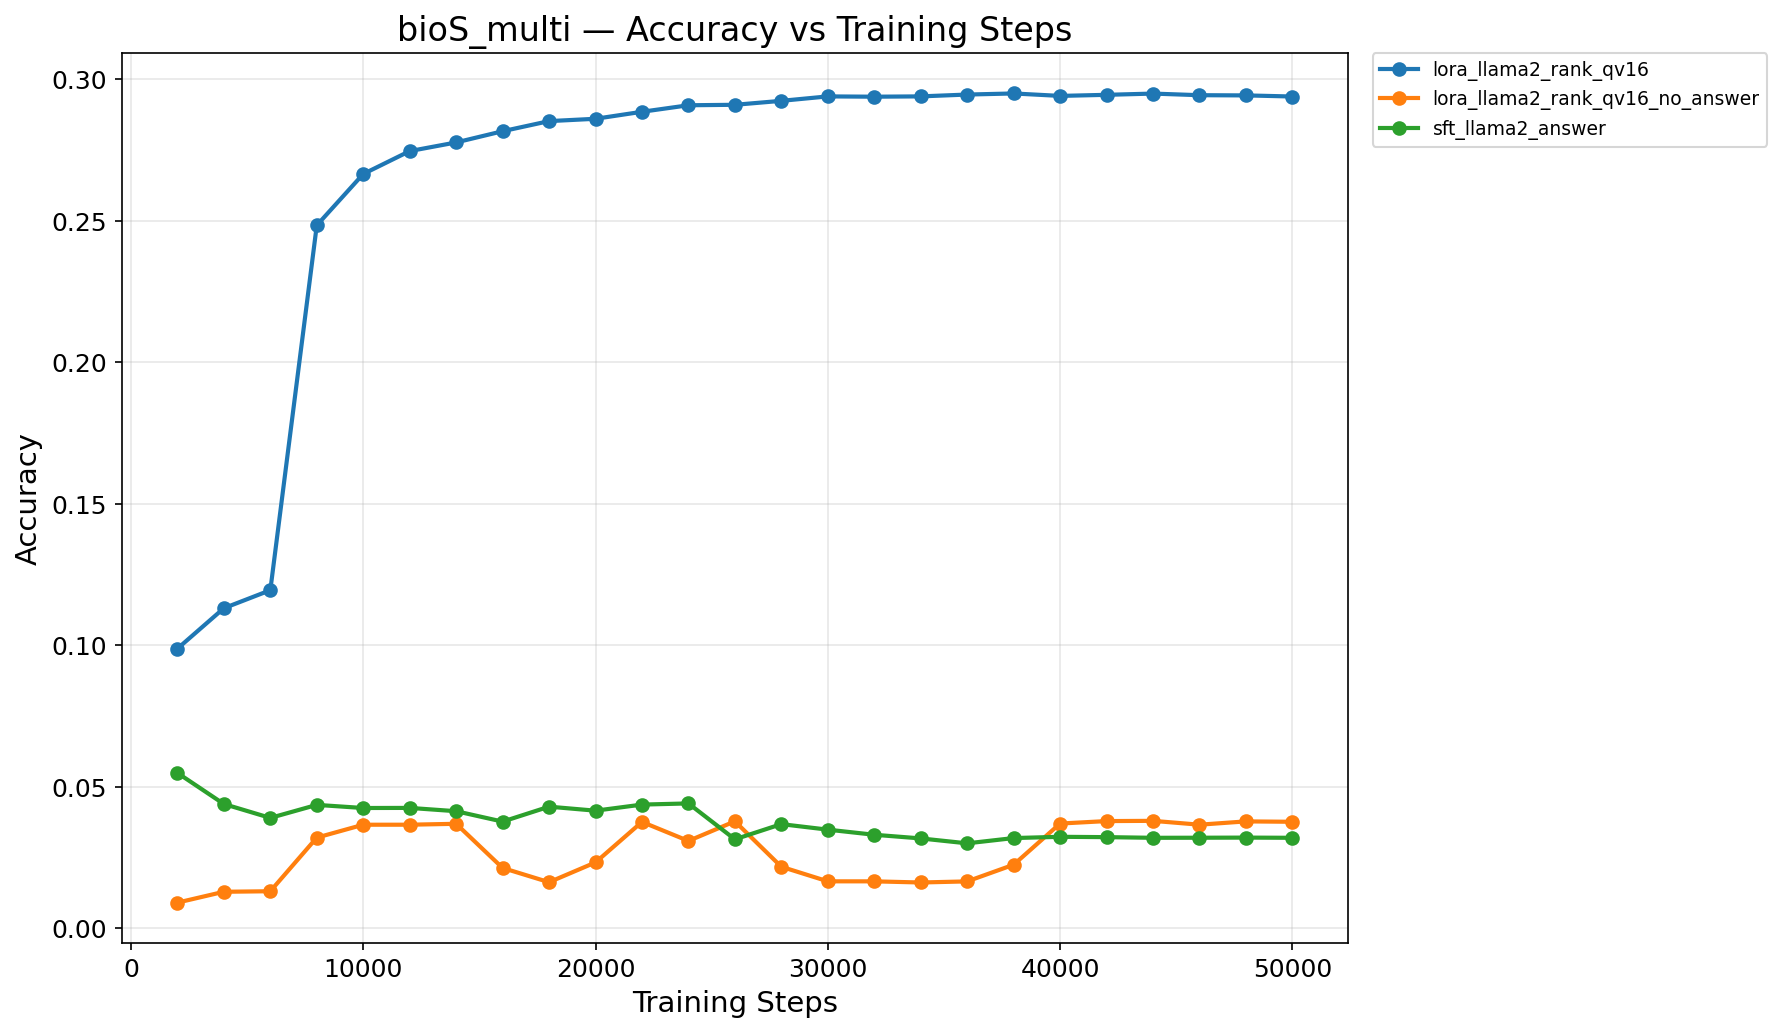
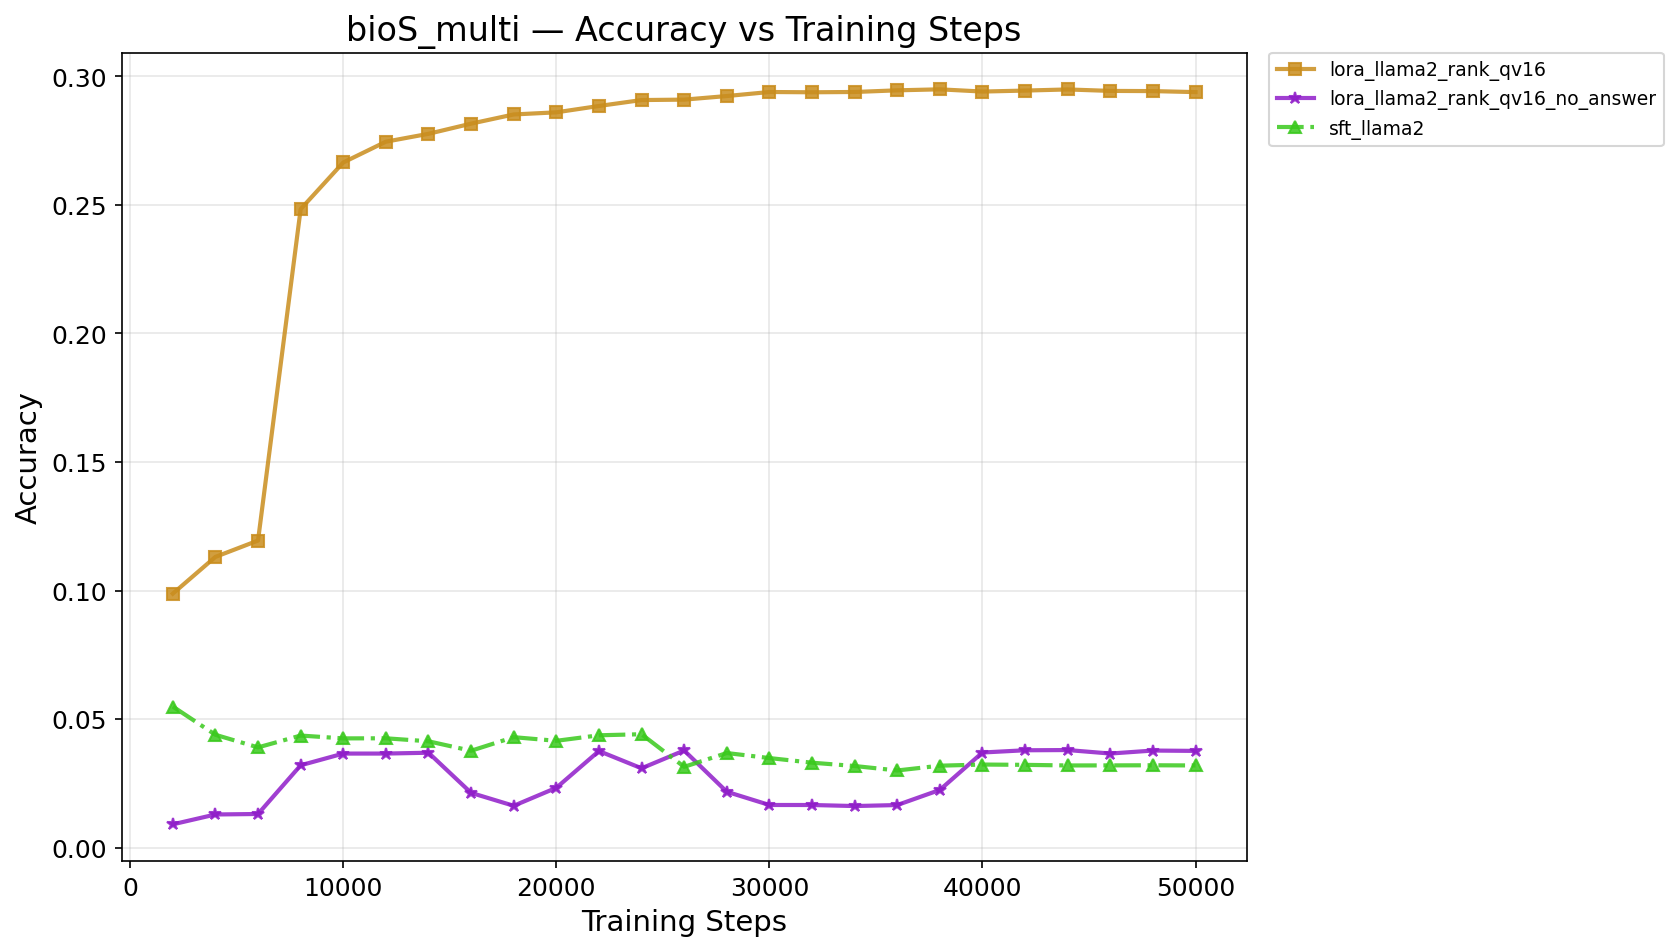
[fix] eval

diff --git a/Part3/eval/eval_all.py b/Part3/eval/eval_all.py
@@ -11,13 +11,34 @@ import matplotlib
 matplotlib.use("Agg")
 import matplotlib.pyplot as plt
 import matplotlib.gridspec as gridspec
+import matplotlib.colors as mcolors
 
+
+import colorsys
+import hashlib
 
 CHECKPOINT_BASE = "/ruilab/jxhe/CoE_Monitor/Physics_of_LM/Part3/checkpoints/QA"
+# 线型和 marker 池（与颜色正交组合）
+_LINESTYLES = ["-", "--", "-.", ":"]
+_MARKERS = ["o", "s", "^", "d", "v", "p", "P", "D", "x", "*", "1", "2", "3", "4", "|", "h", ">", "<"]
+
+
+def _get_style_for(label):
+    """基于 label hash 动态分配 (color, linestyle, marker)，同一 label 永远同一样式。"""
+    h = hashlib.sha256(label.encode()).hexdigest()
+    # 颜色：hls 均匀分布，固定 lightness 和 saturation 保可读性
+    hue = int(h[:6], 16) / 0xFFFFFF
+    color = mcolors.to_hex(colorsys.hls_to_rgb(hue, 0.45, 0.75))
+    # 线型和 marker 用相隔较远的 hex 位，避免相似字符串分配相同样式
+    linestyle = _LINESTYLES[int(h[8], 16) % len(_LINESTYLES)]
+    marker = _MARKERS[int(h[20], 16) * len(_MARKERS) // 16]
+    return {"color": color, "linestyle": linestyle, "marker": marker}
+
+
 RESULT_BASE = "/ruilab/jxhe/CoE_Monitor/Physics_of_LM/Part3/eval/result"
 EVAL_SCRIPT = os.path.join(os.path.dirname(os.path.abspath(__file__)), "eval.py")
 PLOT_DIR = "/ruilab/jxhe/CoE_Monitor/Physics_of_LM/Part3/eval/plots"
-GPU_IDS = [0, 1, 2, 3]  # 指定可用的 GPU ID 列表，而非数量
+GPU_IDS = [4,5,6,7]  # 指定可用的 GPU ID 列表，而非数量
 
 
 def get_checkpoints_to_eval():
@@ -129,27 +150,29 @@ def collect_results():
 
 def _map_legend_name(model_name):
     """将复杂的模型名称映射为图例中简洁的标签。"""
+    # 提取 mode 后缀（如 _mode_no_answer → _no_answer）
+    mode_suffix = ""
+    m = re.search(r"_mode_([^_]+)", model_name)
+    if m:
+        mode_suffix = f"_{m.group(1)}"
+
+    if 'mode' not in model_name and 'no_answer' in model_name:
+        mode_suffix = "_no_answer"
+
     if model_name.startswith("lora_llama2"):
         if "_rank_qv8_" in model_name:
-            return "lora_llama2_rank_qv8"
+            return "lora_llama2_rank_qv8" + mode_suffix
         elif "_rank_qv16_" in model_name:
-            label = "lora_llama2_rank_qv16"
-            if "no_answer" in model_name:
-                label += "_no_answer"
-            return label
+            return "lora_llama2_rank_qv16" + mode_suffix
         else:
-            return model_name
+            return "lora_llama2" + mode_suffix
 
     if model_name.startswith("sft_llama2"):
-        if "_no_answer_" in model_name:
-            return "sft_llama2_no_answer"
-        else:
-            return "sft_llama2_answer"
+        return "sft_llama2" + mode_suffix
 
     return model_name
 
 
-# 已知属性列表（固定顺序，与 generate_bios_datasets.py 对齐）
 KNOWN_ATTRS = ["birth_date", "birth_city", "university", "field", "company1name", "company1city"]
 
 
@@ -180,23 +203,39 @@ def plot_results(results, plot_dir):
                 steps = sorted(steps_dict.keys())
                 accs = [steps_dict[s].get("overall", 0) for s in steps]
                 label = _map_legend_name(model_name)
-                ax.plot(steps, accs, marker="o", label=label, linewidth=2, markersize=6)
+                s = _get_style_for(label)
+                ax.plot(steps, accs, label=label,
+                        color=s["color"], linestyle=s["linestyle"],
+                        marker=s["marker"], linewidth=2, markersize=6, alpha=0.85)
             ax.set_xlabel("Training Steps", fontsize=14)
             ax.set_ylabel("Accuracy", fontsize=14)
             ax.set_title(f"{model_type} — Accuracy vs Training Steps", fontsize=16)
             ax.legend(fontsize=9, bbox_to_anchor=(1.02, 1), loc="upper left", borderaxespad=0)
             ax.grid(True, alpha=0.3)
             ax.tick_params(axis="both", labelsize=12)
-            fig.tight_layout()
+            fig.subplots_adjust(right=0.75)
             plot_path = os.path.join(plot_dir, f"{model_type}_accuracy.png")
             fig.savefig(plot_path, dpi=150, bbox_inches="tight")
             plt.close(fig)
             print(f"[Plot] {plot_path}")
             continue
 
+        # 筛选有数据的属性
+        def _attr_has_data(attr_name):
+            for model_name, steps_dict in experiments.items():
+                if not steps_dict:
+                    continue
+                for step_data in steps_dict.values():
+                    if attr_name in step_data and isinstance(step_data[attr_name], (int, float)):
+                        return True
+            return False
+
+        has_data_attrs = [a for a in attr_order if _attr_has_data(a)]
+        n_data_attrs = len(has_data_attrs)
+
         # 布局：上方总图跨全宽，下方属性子图
-        n_cols = min(3, n_attrs)
-        n_rows_attrs = (n_attrs + n_cols - 1) // n_cols
+        n_cols = min(3, n_data_attrs) if n_data_attrs > 0 else 1
+        n_rows_attrs = (n_data_attrs + n_cols - 1) // n_cols if n_data_attrs > 0 else 0
         total_rows = 1 + n_rows_attrs
 
         fig = plt.figure(figsize=(6 * n_cols, 5 * total_rows))
@@ -210,15 +249,18 @@ def plot_results(results, plot_dir):
             steps = sorted(steps_dict.keys())
             accs = [steps_dict[s].get("overall", 0) for s in steps]
             label = _map_legend_name(model_name)
-            ax_overall.plot(steps, accs, marker="o", label=label, linewidth=2, markersize=6)
+            s = _get_style_for(label)
+            ax_overall.plot(steps, accs, label=label,
+                            color=s["color"], linestyle=s["linestyle"],
+                            marker=s["marker"], linewidth=2, markersize=6, alpha=0.85)
         ax_overall.set_xlabel("Training Steps", fontsize=12)
         ax_overall.set_ylabel("Accuracy", fontsize=12)
         ax_overall.set_title(f"{model_type} — Overall Accuracy", fontsize=14)
         ax_overall.legend(fontsize=8, bbox_to_anchor=(1.02, 1), loc="upper left", borderaxespad=0)
         ax_overall.grid(True, alpha=0.3)
 
-        # 属性子图
-        for idx, attr_name in enumerate(attr_order):
+        # 属性子图（均为有数据的属性）
+        for idx, attr_name in enumerate(has_data_attrs):
             row = 1 + idx // n_cols
             col = idx % n_cols
             ax_attr = fig.add_subplot(gs[row, col])
@@ -228,11 +270,13 @@ def plot_results(results, plot_dir):
                     continue
                 steps = sorted(steps_dict.keys())
                 accs = [steps_dict[s].get(attr_name, float("nan")) for s in steps]
-                # 跳过全为 nan 的曲线
                 if all(isinstance(a, float) and a != a for a in accs):
                     continue
                 label = _map_legend_name(model_name)
-                ax_attr.plot(steps, accs, marker="o", label=label, linewidth=1.5, markersize=4)
+                s = _get_style_for(label)
+                ax_attr.plot(steps, accs, label=label,
+                             color=s["color"], linestyle=s["linestyle"],
+                             marker=s["marker"], linewidth=1.5, markersize=4, alpha=0.85)
 
             ax_attr.set_xlabel("Steps", fontsize=10)
             ax_attr.set_ylabel("Accuracy", fontsize=10)
@@ -240,12 +284,11 @@ def plot_results(results, plot_dir):
             ax_attr.grid(True, alpha=0.3)
             ax_attr.tick_params(axis="both", labelsize=9)
 
-        # 只在最后一个子图放图例
-        if attr_order:
-            last_ax = fig.axes[-1]
-            last_ax.legend(fontsize=7, bbox_to_anchor=(1.02, 1), loc="upper left", borderaxespad=0)
+        # 图例放在最后一个属性子图上
+        if has_data_attrs:
+            fig.axes[-1].legend(fontsize=7, bbox_to_anchor=(1.02, 1), loc="upper left", borderaxespad=0)
 
-        fig.tight_layout()
+        fig.subplots_adjust(hspace=0.5, wspace=0.3, right=0.75)
         plot_path = os.path.join(plot_dir, f"{model_type}_accuracy.png")
         fig.savefig(plot_path, dpi=150, bbox_inches="tight")
         plt.close(fig)

diff --git a/Part3/eval/eval.py b/Part3/eval/eval.py
@@ -21,6 +21,17 @@ _QA_ATTR_PATTERNS = [
     (r"Where did", "company1city"),
 ]
 
+# 属性名 → 问题关键词反查，用于从答案中剥离属性前缀
+_ATTR_PREFIXES = [
+    "birth date: ",
+    "birth city: ",
+    "university: ",
+    "field: ",
+    "major: ",
+    "company: ",
+    "company city: ",
+]
+
 
 def _extract_attribute_from_question(question: str) -> str:
     """从问句中提取属性名，未匹配时返回 'unknown'。"""
@@ -30,7 +41,31 @@ def _extract_attribute_from_question(question: str) -> str:
     return "unknown"
 
 
+def _strip_all_prefixes(s: str) -> str:
+    """剥离所有已知的答案前缀（Answer: / 属性名: / # / 前导空格），返回纯答案文本。"""
+    s = s.strip()
+    # 去掉 "Answer: " 或 "Answer:" 前缀
+    s = re.sub(r'^Answer:\s*', '', s, flags=re.IGNORECASE)
+    s = s.strip()
+    # 去掉属性名前缀（如 "birth date: "）
+    for prefix in _ATTR_PREFIXES:
+        if s.lower().startswith(prefix.lower()):
+            s = s[len(prefix):]
+            break
+    s = s.strip()
+    # 去掉开头单个 # 号（#January → January）
+    s = re.sub(r'^#\s*', '', s)
+    s = s.strip()
+    # 去掉末尾句号
+    s = s.rstrip(".")
+    s = s.strip()
+    # 合并多余空白
+    s = re.sub(r'\s+', ' ', s)
+    return s
+
+
 def qa_text_to_messages(text: str) -> List[Dict[str, str]]:
+    """兼容原始 text 格式，直接提取 question / assistant answer。"""
     text = str(text).strip()
     if "Answer:" in text:
         idx = text.index("Answer:")
@@ -46,6 +81,7 @@ def qa_text_to_messages(text: str) -> List[Dict[str, str]]:
 
 
 def extract_qa_from_example(example: Dict) -> Tuple[str, str]:
+    """从 sample 中提取 (question, gold_answer_content)。"""
     if "messages" in example and example["messages"] is not None:
         messages = example["messages"]
     elif "text" in example:
@@ -69,11 +105,8 @@ def extract_qa_from_example(example: Dict) -> Tuple[str, str]:
 
 
 def normalize_answer(s: str) -> str:
-    s = str(s).strip()
-    s = re.sub(r"^\s*Answer:\s*", "", s, flags=re.IGNORECASE)
-    s = s.strip().strip(".").strip()
-    s = re.sub(r"\s+", " ", s)
-    return s
+    """统一规范化答案文本：剥离所有已知前缀，仅保留核心答案值。"""
+    return _strip_all_prefixes(s)
 
 
 def save_jsonl(records: List[Dict], output_path: str) -> None:

diff --git a/Part3/Train/Train_Workflow.py b/Part3/Train/Train_Workflow.py
@@ -19,7 +19,7 @@ from utils.merge_lora_checkpoints import find_checkpoints, merge_single_checkpoi
 
 IS_TEST = False
 TRAIN_TYPE = "LORA"  # 可选: "PT" / "SFT" / "LORA"
-DATA_MODE = "no_answer"  # 可选: "no_answer" / "#" / "attribute" / "raw"
+DATA_MODE = "raw"  # 可选: "no_answer" / "#" / "attribute" / "raw"
 
 # SFT/LORA 专用：指定要训练的 QA 属性文件列表，为空或 None 时使用 TRAIN_PARQUET_PATH 的 glob
 TRAIN_QA_FILES = [
@@ -49,8 +49,8 @@ if TRAIN_TYPE in {"SFT", "LORA"}:
 	TRAIN_PARQUET_PATH = "/ruilab/jxhe/CoE_Monitor/Physics_of_LM/Part3/datasets/QA/train/*.parquet"
 
 	# MODEL_PATH = '/ruilab/jxhe/CoE_Monitor/Physics_of_LM/Part3/checkpoints/bioS_single/llama2_lr1e-03_wd1e-01_2026_04_13_22_00_10'
-	# MODEL_PATH = '/ruilab/jxhe/CoE_Monitor/Physics_of_LM/Part3/checkpoints/bioS_multi/llama2_lr1e-03_wd1e-01_2026_04_13_22_03_07'
-	MODEL_PATH = '/ruilab/jxhe/CoE_Monitor/Physics_of_LM/Part3/checkpoints/bioS_multi_permute_fullname/llama2_lr1e-03_wd1e-01_2026_04_13_22_03_59'
+	MODEL_PATH = '/ruilab/jxhe/CoE_Monitor/Physics_of_LM/Part3/checkpoints/bioS_multi/llama2_lr1e-03_wd1e-01_2026_04_13_22_03_07'
+	# MODEL_PATH = '/ruilab/jxhe/CoE_Monitor/Physics_of_LM/Part3/checkpoints/bioS_multi_permute_fullname/llama2_lr1e-03_wd1e-01_2026_04_13_22_03_59'
 
 LORA_RANK_EMBED = 128
 LORA_RANK_QV = 16
